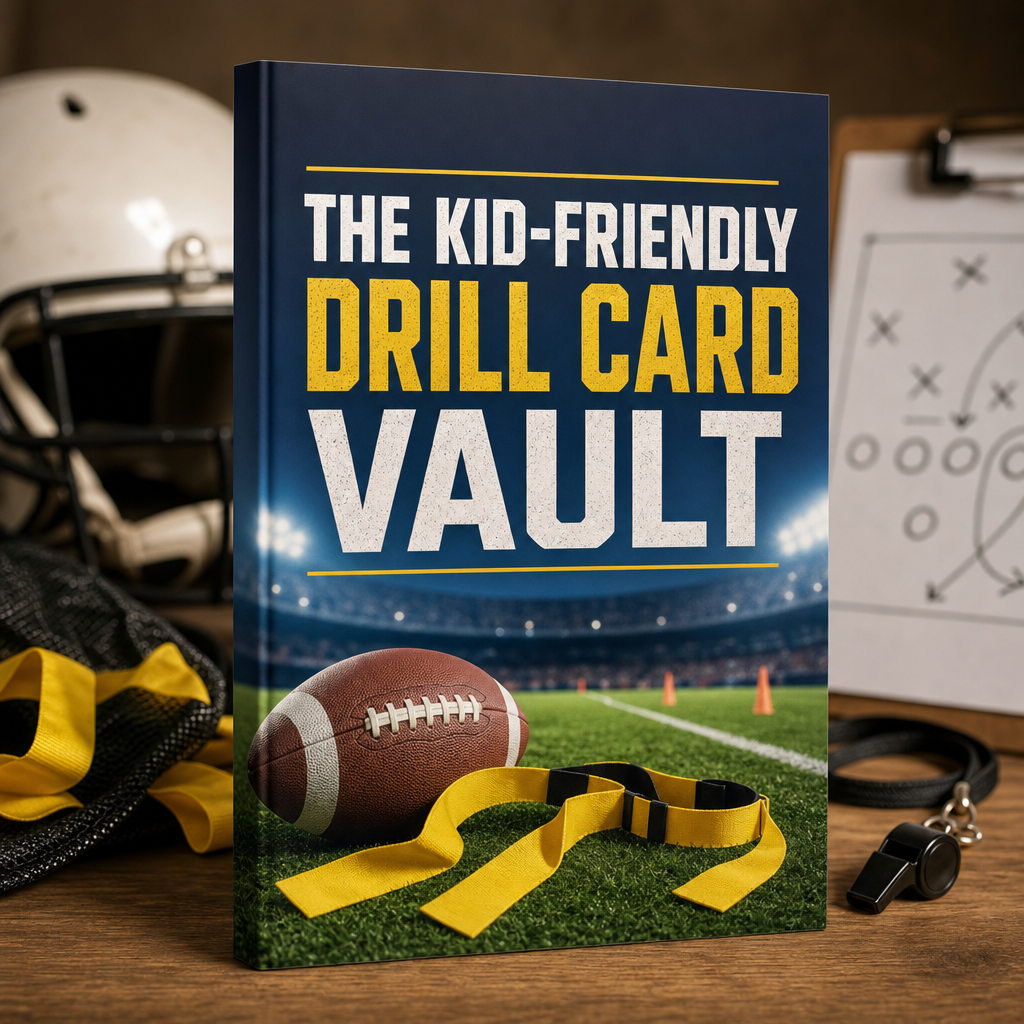
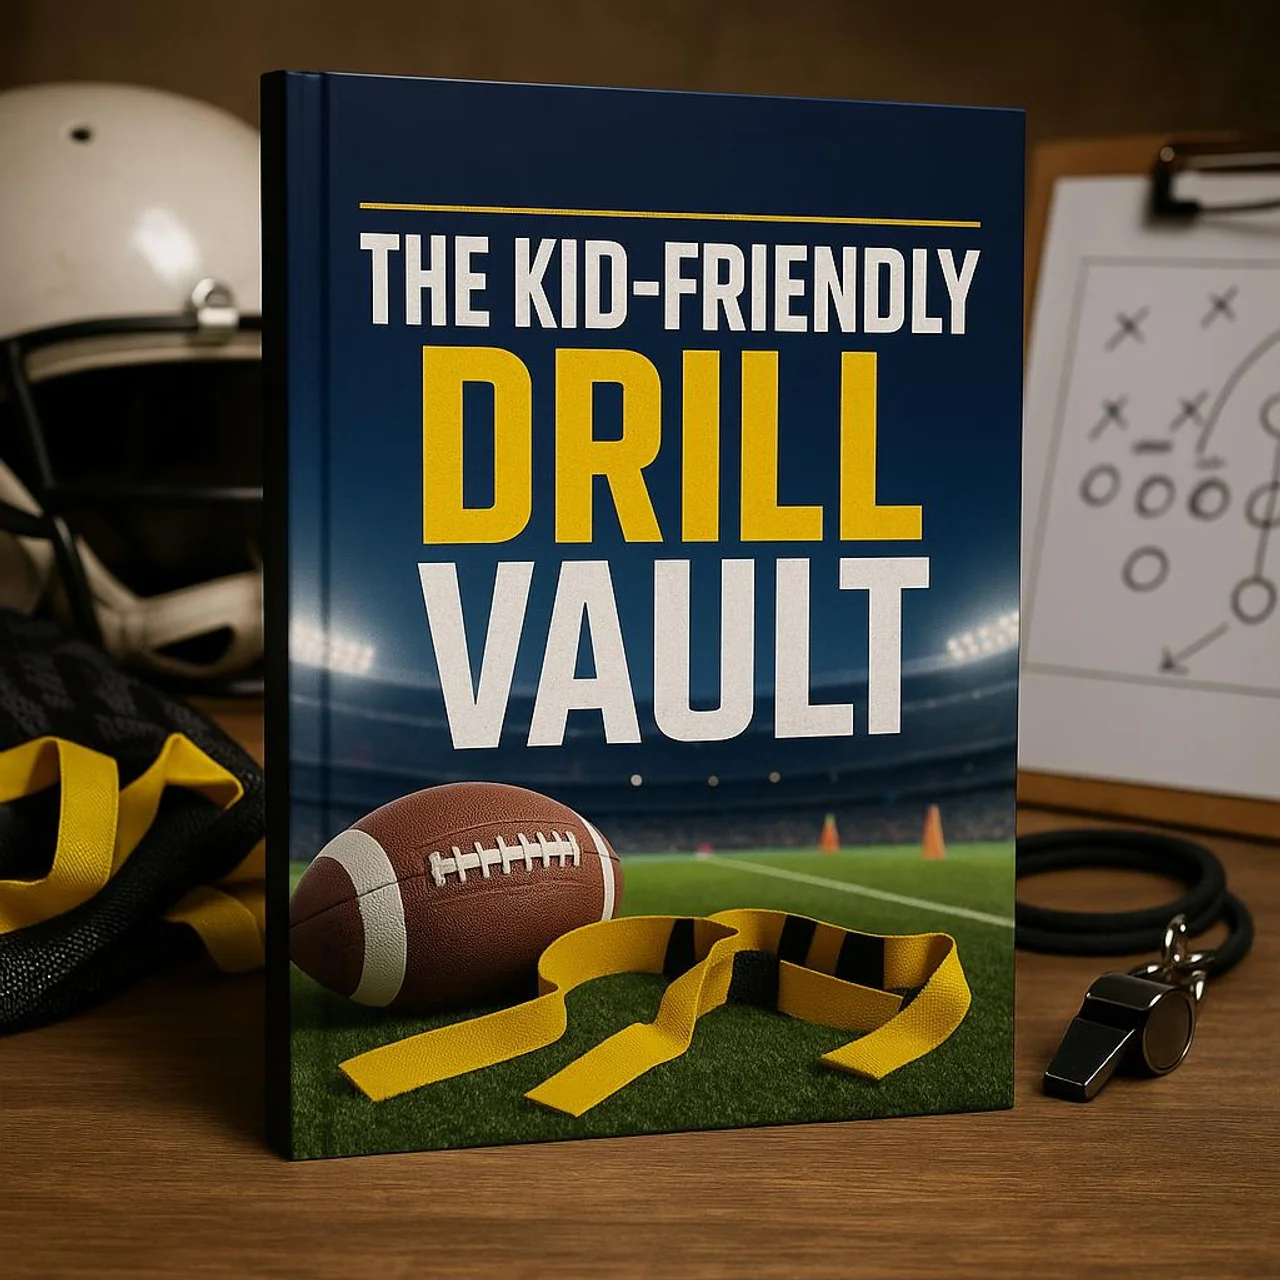
Actualizar imagen y copy del Bono 4 (Drill Card Vault)

diff --git a/src/components/BonusesSection.tsx b/src/components/BonusesSection.tsx
@@ -22,7 +22,7 @@ const bonuses = [
   {
     num: 4,
     title: "The Kid-Friendly Drill Card Vault",
-    desc: "Keep kids moving and engaged with 20 printable drill cards for every skill level.",
+    desc: "Give your players more reps, more movement, and more focus with a printable drill vault packed with simple youth-friendly exercises for every practice.",
     image: "b4.webp",
   },
   {
